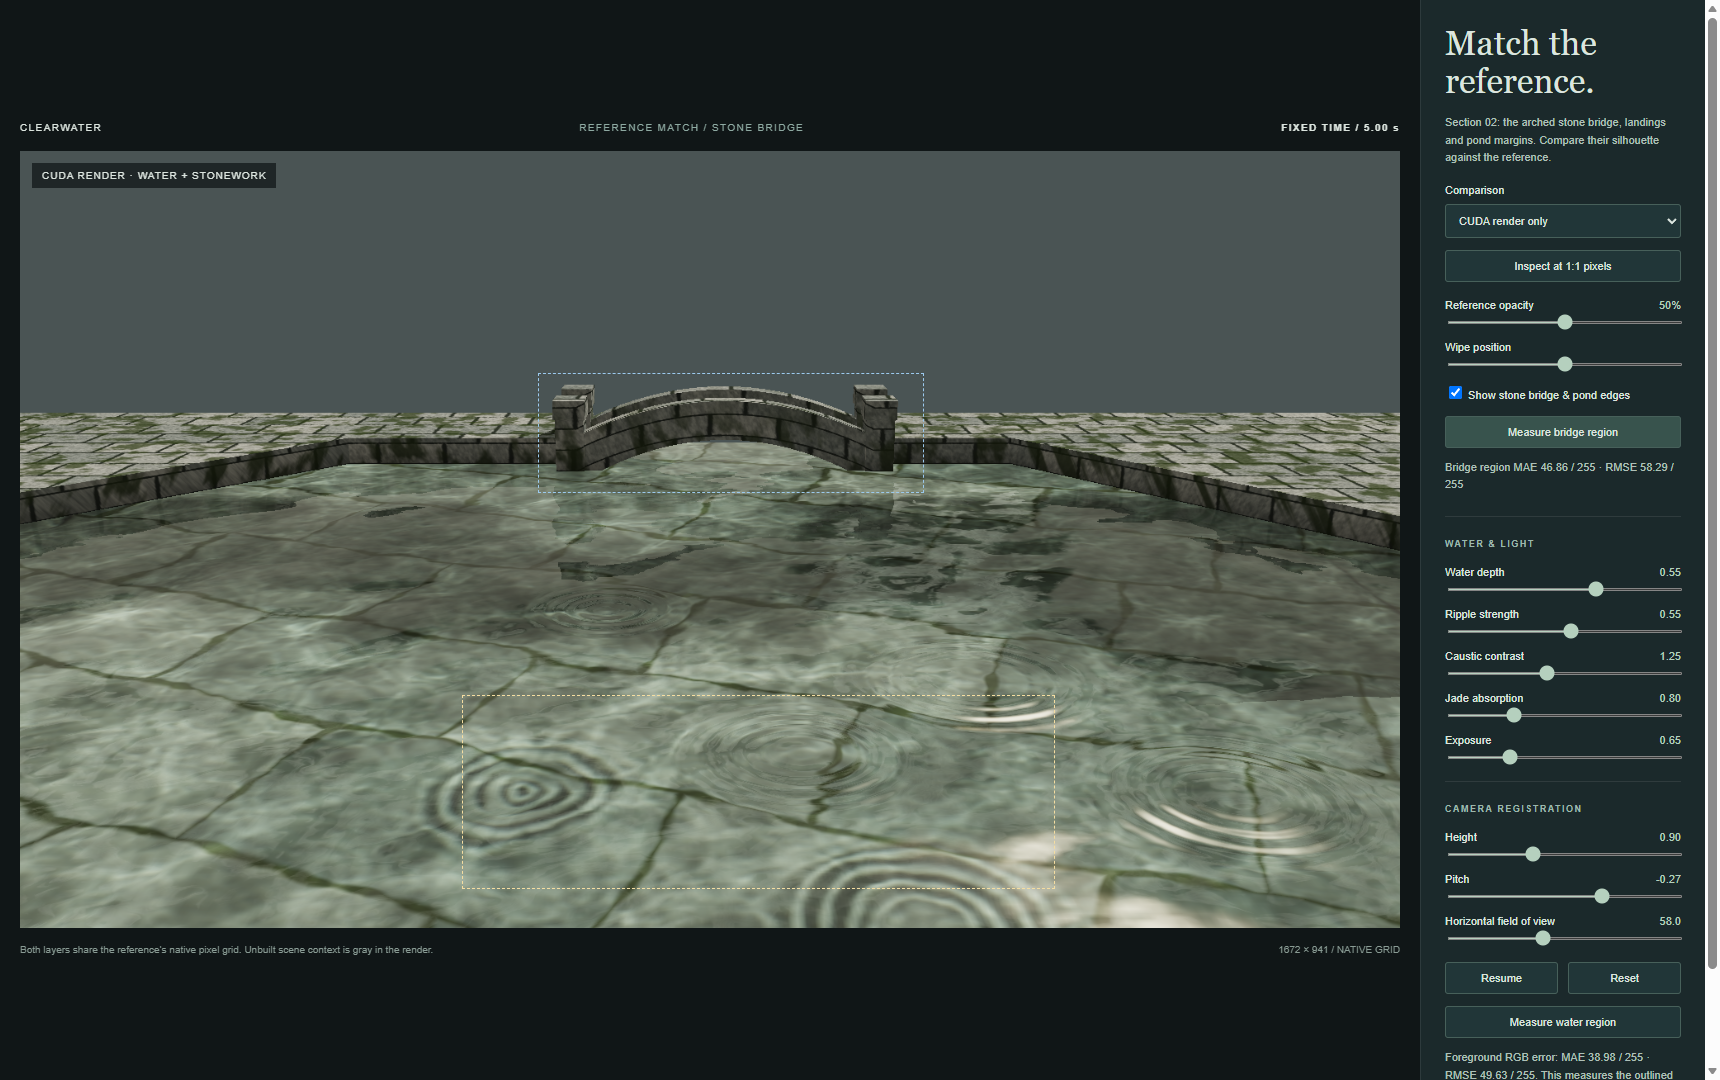
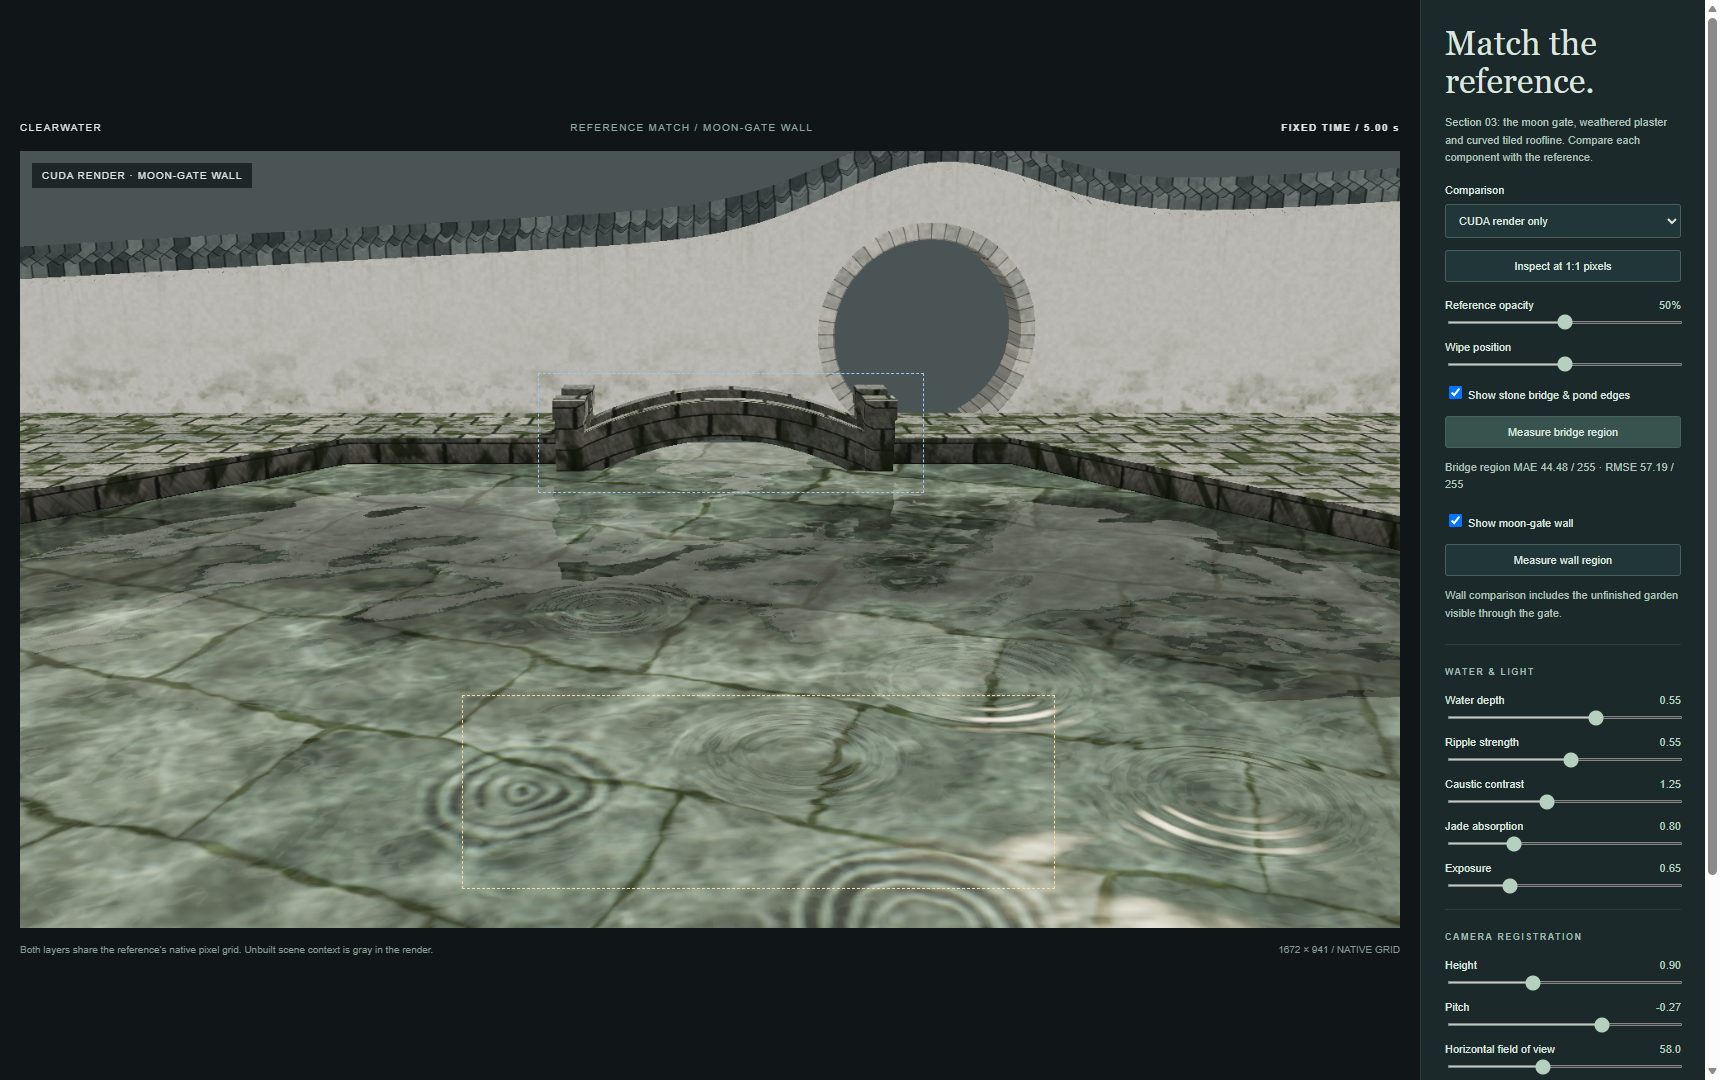
Add moon-gate wall with curved tiled coping and water reflections

diff --git a/study/app.js b/study/app.js
@@ -1,16 +1,17 @@
 import {GpuRuntime} from '../vendor/cuda-webshader/runtime/runtime.js';
 const $=id=>document.getElementById(id),canvas=$('render'),reference=$('reference');
 const defaults={depth:.55,wave:.55,caustic:1.25,tint:.8,exposure:.65,height:.9,pitch:-.27,fov:58};
-const state={...defaults,stonework:1,time:5,playing:false},diag=window.studyDiagnostics={ready:false,errors:[],frames:0,state};
+const state={...defaults,stonework:1,wall:1,time:5,playing:false},diag=window.studyDiagnostics={ready:false,errors:[],frames:0,state};
 const ids=Object.keys(defaults);let rt,pixels,stride,width,height,busy=false;
-function controls(){$('stonework').checked=!!state.stonework;for(const id of ids){$(id).value=state[id];$(id+'Value').textContent=state[id].toFixed(id==='fov'?1:2);}$('pause').textContent=state.playing?'Pause':'Resume';}
+function controls(){$('wall').checked=!!state.wall;$('stonework').checked=!!state.stonework;for(const id of ids){$(id).value=state[id];$(id+'Value').textContent=state[id].toFixed(id==='fov'?1:2);}$('pause').textContent=state.playing?'Pause':'Resume';}
 for(const id of ids)$(id).oninput=()=>{state[id]=+$(id).value;controls();};
-$('pause').onclick=()=>{state.playing=!state.playing;controls();};$('reset').onclick=()=>{Object.assign(state,defaults,{time:5,playing:false,stonework:1});controls();compare();};
-function compare(){const mode=$('mode').value;reference.style.opacity=mode==='render'?'0':mode==='overlay'?$('opacity').value:'1';reference.style.mixBlendMode=mode==='difference'?'difference':'normal';reference.style.clipPath=mode==='wipe'?`inset(0 ${100-+$('wipe').value}% 0 0)`:'none';$('divider').style.display=mode==='wipe'?'block':'none';$('divider').style.left=$('wipe').value+'%';$('opacityValue').textContent=Math.round(+$('opacity').value*100)+'%';$('caption').textContent={render:state.stonework?'CUDA RENDER · WATER + STONEWORK':'CUDA RENDER · WATER ONLY',reference:'GENERATED REFERENCE',overlay:'REFERENCE OVER CUDA RENDER',wipe:'REFERENCE ← | → CUDA RENDER',difference:'ABSOLUTE RGB DIFFERENCE · BLACK = MATCH'}[mode];}
+$('pause').onclick=()=>{state.playing=!state.playing;controls();};$('reset').onclick=()=>{Object.assign(state,defaults,{time:5,playing:false,stonework:1,wall:1});controls();compare();};
+function compare(){const mode=$('mode').value;reference.style.opacity=mode==='render'?'0':mode==='overlay'?$('opacity').value:'1';reference.style.mixBlendMode=mode==='difference'?'difference':'normal';reference.style.clipPath=mode==='wipe'?`inset(0 ${100-+$('wipe').value}% 0 0)`:'none';$('divider').style.display=mode==='wipe'?'block':'none';$('divider').style.left=$('wipe').value+'%';$('opacityValue').textContent=Math.round(+$('opacity').value*100)+'%';$('caption').textContent={render:state.wall?'CUDA RENDER · MOON-GATE WALL':state.stonework?'CUDA RENDER · WATER + STONEWORK':'CUDA RENDER · WATER ONLY',reference:'GENERATED REFERENCE',overlay:'REFERENCE OVER CUDA RENDER',wipe:'REFERENCE ← | → CUDA RENDER',difference:'ABSOLUTE RGB DIFFERENCE · BLACK = MATCH'}[mode];}
 for(const id of ['mode','opacity','wipe'])$(id).oninput=compare;
 $('save').onclick=()=>{const a=document.createElement('a');a.href=URL.createObjectURL(new Blob([JSON.stringify({reference:'jiangnan-pond-concept-v1.png',width,height,...state},null,2)],{type:'application/json'}));a.download='water-study-settings.json';a.click();setTimeout(()=>URL.revokeObjectURL(a.href),1000);};
 $('zoom').onclick=()=>{const zoom=document.body.classList.toggle('nativePixels');$('zoom').textContent=zoom?'Fit comparison to window':'Inspect at 1:1 pixels';};
 $('stonework').onchange=()=>{state.stonework=$('stonework').checked?1:0;compare();};
+$('wall').onchange=()=>{state.wall=$('wall').checked?1:0;compare();};
 controls();compare();
 function fail(e){diag.errors.push(String(e.message||e));$('error').hidden=false;$('error').textContent=diag.errors.join('\n');$('status').textContent='ERROR';console.error(e);}
 try{
@@ -25,12 +26,13 @@ const ctx=canvas.getContext('webgpu');ctx.configure({device:rt.device,format:'rg
 async function frame(now){try{if(busy){requestAnimationFrame(frame);return;}busy=true;const dt=last?Math.min(.05,(now-last)/1000):0;last=now;if(state.playing)state.time+=dt;
 const batch=rt.batch();batch.dispatch(k.evolve_spectrum.bind({seed,scales,output:fft[0],weather,spectralEnergy},{time:state.time,sea:1,depth:state.depth,weatherDt:0}),WG);
 let src=0;for(let axis=0;axis<2;axis++)for(let p=1;p<256;p*=2){batch.dispatch(k.fft_pass.bind({input:fft[src],output:fft[1-src]},{p,axis,sign:1}),WG);src=1-src;}
-batch.dispatch(k.resolve_surface.bind({input:fft[src],surface}),WG).dispatch(k.clear_caustics.bind({photons}),[64,64,1]).dispatch(k.study_caustics.bind({surface,photons},{depth:state.depth,wave:state.wave,time:state.time}),[128,128,1]).dispatch(k.filter_caustics.bind({photons,caustics}),[64,64,1]).dispatch(k.study_render.bind({surface,caustics,hdr},{width,height,cameraHeight:state.height,pitch:state.pitch,fov:state.fov,depth:state.depth,wave:state.wave,caustic:state.caustic,tint:state.tint,time:state.time,stonework:state.stonework}),grid).dispatch(k.study_present.bind({hdr,image:pixels},{width,height,stride,exposure:state.exposure}),grid).submit();
+batch.dispatch(k.resolve_surface.bind({input:fft[src],surface}),WG).dispatch(k.clear_caustics.bind({photons}),[64,64,1]).dispatch(k.study_caustics.bind({surface,photons},{depth:state.depth,wave:state.wave,time:state.time}),[128,128,1]).dispatch(k.filter_caustics.bind({photons,caustics}),[64,64,1]).dispatch(k.study_render.bind({surface,caustics,hdr},{width,height,cameraHeight:state.height,pitch:state.pitch,fov:state.fov,depth:state.depth,wave:state.wave,caustic:state.caustic,tint:state.tint,time:state.time,stonework:state.stonework,wall:state.wall}),grid).dispatch(k.study_present.bind({hdr,image:pixels},{width,height,stride,exposure:state.exposure}),grid).submit();
 const enc=rt.device.createCommandEncoder();enc.copyBufferToTexture({buffer:pixels.gpuBuffer,bytesPerRow:stride*4,rowsPerImage:height},{texture:ctx.getCurrentTexture()},[width,height]);rt.device.queue.submit([enc.finish()]);await rt.idle();diag.ready=true;diag.frames++;diag.readbackBytes=rt.stats.readbackBytes;$('status').textContent=state.playing?'LIVE':`FIXED TIME / ${state.time.toFixed(2)} s`;busy=false;requestAnimationFrame(frame);
 }catch(e){busy=false;fail(e);}}
-async function measure(region=[.32,.7,.75,.95]){state.playing=false;controls();while(busy)await new Promise(r=>setTimeout(r,10));busy=true;try{await rt.idle();const packed=await rt.read(pixels,Uint32Array);const c=document.createElement('canvas');c.width=width;c.height=height;const two=c.getContext('2d',{willReadFrequently:true});two.drawImage(reference,0,0);const target=two.getImageData(0,0,width,height).data;let absolute=0,squares=0,count=0;for(let y=Math.ceil(height*region[1]);y<Math.floor(height*region[3]);y++)for(let x=Math.ceil(width*region[0]);x<Math.floor(width*region[2]);x++){let p=packed[y*stride+x];for(let channel=0;channel<3;channel++){const delta=((p>>>(channel*8))&255)-target[(y*width+x)*4+channel];absolute+=Math.abs(delta);squares+=delta*delta;count++;}}
+async function measure(region=[.32,.7,.75,.95]){state.playing=false;controls();while(busy)await new Promise(r=>setTimeout(r,10));busy=true;try{await rt.idle();const packed=await rt.read(pixels,Uint32Array);const c=document.createElement('canvas');c.width=width;c.height=height;const two=c.getContext('2d',{willReadFrequently:true});two.drawImage(reference,0,0);const target=two.getImageData(0,0,width,height).data;let absolute=0,squares=0,count=0,checksum=2166136261;for(let y=Math.ceil(height*region[1]);y<Math.floor(height*region[3]);y++)for(let x=Math.ceil(width*region[0]);x<Math.floor(width*region[2]);x++){let p=packed[y*stride+x];checksum=Math.imul(checksum^p,16777619)>>>0;for(let channel=0;channel<3;channel++){const delta=((p>>>(channel*8))&255)-target[(y*width+x)*4+channel];absolute+=Math.abs(delta);squares+=delta*delta;count++;}}
 const rowEdgesOpaque=Array.from({length:height},(_,y)=>(packed[y*stride]>>>24)===255&&(packed[y*stride+width-1]>>>24)===255).every(Boolean);
-const result={rowEdgesOpaque,mae:absolute/count,rmse:Math.sqrt(squares/count),region,width,height,state:{...state}};diag.measurement=result;if(region[1]>.5)$('metric').textContent=`Foreground RGB error: MAE ${result.mae.toFixed(2)} / 255 · RMSE ${result.rmse.toFixed(2)} / 255. This measures the outlined water region only. A pixel-perfect match would be 0.`;return result;}finally{busy=false;}}
+const result={checksum,rowEdgesOpaque,mae:absolute/count,rmse:Math.sqrt(squares/count),region,width,height,state:{...state}};diag.measurement=result;if(region[1]>.5)$('metric').textContent=`Foreground RGB error: MAE ${result.mae.toFixed(2)} / 255 · RMSE ${result.rmse.toFixed(2)} / 255. This measures the outlined water region only. A pixel-perfect match would be 0.`;return result;}finally{busy=false;}}
 $('measure').onclick=()=>measure().catch(fail);
+$('wallMeasure').onclick=()=>measure([.36,.015,.97,.34]).then(r=>{$('wallMetric').textContent=`Wall region MAE ${r.mae.toFixed(2)} / 255 · RMSE ${r.rmse.toFixed(2)} / 255`;}).catch(fail);
 $('bridgeMeasure').onclick=()=>measure([.375,.285,.655,.44]).then(r=>{$('bridgeMetric').textContent=`Bridge region MAE ${r.mae.toFixed(2)} / 255 · RMSE ${r.rmse.toFixed(2)} / 255`;}).catch(fail);window.studyLab={state,measure};requestAnimationFrame(frame);
 }catch(e){fail(e);}

diff --git a/study/index.html b/study/index.html
@@ -1,12 +1,12 @@
 <!doctype html><html lang="en"><head><meta charset="utf-8"><meta name="viewport" content="width=device-width,initial-scale=1"><title>Clearwater · Reference study</title><link rel="icon" href="data:,"><link rel="stylesheet" href="style.css"></head><body>
-<main><header><a href="../">CLEARWATER</a><span>REFERENCE MATCH / STONE BRIDGE</span><b id="status">COMPILING</b></header>
+<main><header><a href="../">CLEARWATER</a><span>REFERENCE MATCH / MOON-GATE WALL</span><b id="status">COMPILING</b></header>
 <div id="stage"><canvas id="render"></canvas><img id="reference" src="../references/jiangnan-pond-concept-v1.png" alt="Generated Jiangnan pond reference"><div id="divider"></div><div id="roi"></div><div id="bridgeRoi"></div><span id="caption">CUDA RENDER</span></div>
 <footer>Both layers share the reference’s native pixel grid. Unbuilt scene context is gray in the render.<span id="resolution"></span></footer></main>
-<aside><h1>Match the<br>reference.</h1><p>Section 02: the arched stone bridge, landings and pond margins. Compare their silhouette against the reference.</p>
+<aside><h1>Match the<br>reference.</h1><p>Section 03: the moon gate, weathered plaster and curved tiled roofline. Compare each component with the reference.</p>
 <label>Comparison<select id="mode"><option value="overlay">Opacity overlay</option><option value="render">CUDA render only</option><option value="reference">Reference only</option><option value="wipe">Wipe comparison</option><option value="difference">Absolute RGB difference</option></select></label>
 <button id="zoom">Inspect at 1:1 pixels</button><label>Reference opacity <output id="opacityValue">50%</output><input id="opacity" type="range" min="0" max="1" step=".01" value=".5"></label>
 <label>Wipe position<input id="wipe" type="range" min="0" max="100" value="50"></label>
-<label><input id="stonework" type="checkbox" checked> Show stone bridge & pond edges</label><button id="bridgeMeasure">Measure bridge region</button><p id="bridgeMetric">Blue outline: bridge silhouette and stonework.</p><hr><h2>WATER & LIGHT</h2>
+<label><input id="stonework" type="checkbox" checked> Show stone bridge & pond edges</label><button id="bridgeMeasure">Measure bridge region</button><p id="bridgeMetric">Blue outline: bridge silhouette and stonework.</p><label><input id="wall" type="checkbox" checked> Show moon-gate wall</label><button id="wallMeasure">Measure wall region</button><p id="wallMetric">Wall comparison includes the unfinished garden visible through the gate.</p><hr><h2>WATER & LIGHT</h2>
 <label>Water depth <output id="depthValue"></output><input id="depth" type="range" min=".1" max=".8" step=".01" value=".28"></label>
 <label>Ripple strength <output id="waveValue"></output><input id="wave" type="range" min=".05" max="1" step=".01" value=".32"></label>
 <label>Caustic contrast <output id="causticValue"></output><input id="caustic" type="range" min="0" max="3" step=".05" value="1.5"></label>

diff --git a/study/style.css b/study/style.css
@@ -3,3 +3,5 @@
 body.nativePixels main{overflow:auto;display:block}body.nativePixels #stage{width:1672px;height:941px;flex-shrink:0}#zoom{margin-top:12px;width:100%}
 
 #bridgeRoi{position:absolute;left:37.5%;top:28.5%;width:28%;height:15.5%;border:1px dashed #9bc9ed;pointer-events:none}#bridgeMeasure{width:100%;margin-top:14px}
+
+#wallMeasure{width:100%;margin-top:14px}

diff --git a/README.md b/README.md
@@ -8,11 +8,11 @@ A CUDA reimplementation of [Aurélien / Lumaris's Clearwater](https://github.com
 
 ## Reference matching study
 
-**[Open the reference comparison](https://samg-coder.github.io/clearwater/study/)** or visit `/study/` locally. This study builds the generated Jiangnan garden concept one component at a time. The current pass adds the stone bridge and pond edges to the water. It uses the reference's exact 1672 × 941 pixel grid, with adjustable opacity overlay, wipe, absolute RGB difference, and a scrollable 1:1 pixel inspection view. Pause locks wave time for repeatable comparisons; camera height, pitch, field of view, water depth, exposure, absorption, and ripple strength are adjustable.
+**[Open the reference comparison](https://samg-coder.github.io/clearwater/study/)** or visit `/study/` locally. This study builds the generated Jiangnan garden concept one component at a time. The current pass adds the moon-gate wall behind the stone bridge and pond edges. It uses the reference's exact 1672 × 941 pixel grid, with adjustable opacity overlay, wipe, absolute RGB difference, and a scrollable 1:1 pixel inspection view. Pause locks wave time for repeatable comparisons; camera height, pitch, field of view, water depth, exposure, absorption, and ripple strength are adjustable.
 
-[`study/study.cu`](study/study.cu) renders submerged stone, FFT refraction, RGB photon caustics, and isolated drop rings. The caustics use a bounded 4 m photon tile at the selected bed depth; this is an optical approximation. The stone bridge, paired curved parapets, arched walking slab, capped posts, landings, and tapered pond edges are traced as world-space geometry. Procedural stone joints, mottling, moss, and wet waterlines shade their surfaces. The same geometry appears in water reflections and shadows the pond bed. A procedural lighting proxy still supplies reflected foliage and plaster. The reference PNG is a separate DOM comparison layer and is never sampled by the CUDA renderer. The upper scene remains gray because the moon-gate wall, pavilion, and plants have not been assembled. **The rendered content is not yet a pixel-perfect match.** Exact stone arrangement, lighting, and remaining scene silhouettes are still being refined.
+[`study/study.cu`](study/study.cu) renders submerged stone, FFT refraction, RGB photon caustics, and isolated drop rings. The caustics use a bounded 4 m photon tile at the selected bed depth; this is an optical approximation. The stone bridge, paired curved parapets, arched walking slab, capped posts, landings, and tapered pond edges are traced as world-space geometry. Procedural stone joints, mottling, moss, and wet waterlines shade their surfaces. The same geometry appears in water reflections and shadows the pond bed. The moon-gate wall has a true circular opening through its thickness, segmented stone surround, curved roof coping with tile ribs and a ridge, plaster mottling, chipped areas, and runoff staining. Its actual geometry is traced in water reflections. A procedural lighting proxy still supplies the distant unbuilt surroundings. The reference PNG is a separate DOM comparison layer and is never sampled by the CUDA renderer. The sky and view through the gate remain gray because the pavilion, plants, and background garden have not been assembled. **The rendered content is not yet a pixel-perfect match.** Exact stone arrangement, lighting, and remaining scene silhouettes are still being refined.
 
-The optional measurement buttons read the GPU output and report RGB MAE/RMSE for the gold foreground-water rectangle or blue bridge rectangle. The stonework checkbox returns to the water-only view. It excludes most surrounding objects, so it is not a full-scene score. Normal rendering performs no CPU readback. `npm run test:study` checks exact image/canvas alignment, row padding, comparison modes, pause, material controls, and measurement repeatability in Edge against port 5186. Save settings exports the comparison parameters as JSON.
+The optional measurement buttons read the GPU output and report RGB MAE/RMSE for the foreground water, bridge, or wall region. The wall score includes the unfinished view through the gate. Separate stonework and wall checkboxes isolate each construction pass; disable both to return to water only. These regional measurements are not a full-scene score. Normal rendering performs no CPU readback. `npm run test:study` checks exact image/canvas alignment, row padding, comparison modes, pause, material controls, and measurement repeatability in Edge against port 5186. Save settings exports the comparison parameters as JSON.
 
 ## Water cube test
 
